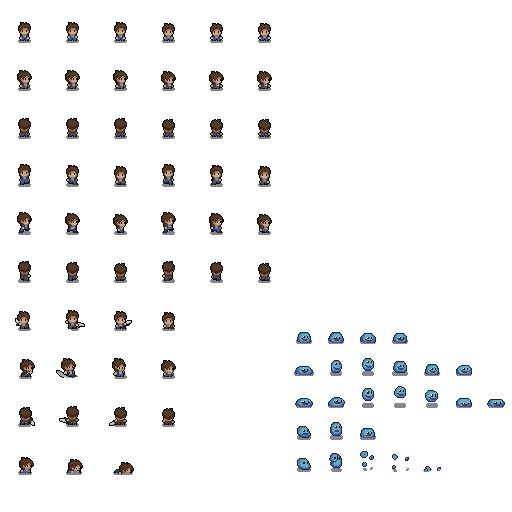
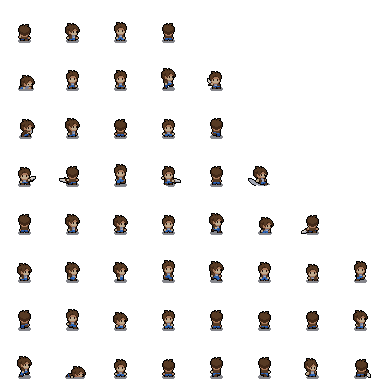
Animation system

diff --git a/core/src/main/kotlin/com/kolts/mystic/woods/screen/GameScreen.kt b/core/src/main/kotlin/com/kolts/mystic/woods/screen/GameScreen.kt
@@ -2,11 +2,13 @@ package com.kolts.mystic.woods.screen
 
 import com.badlogic.ashley.core.Engine
 import com.badlogic.gdx.graphics.g2d.TextureAtlas
-import com.badlogic.gdx.graphics.g2d.TextureRegion
 import com.badlogic.gdx.scenes.scene2d.Stage
 import com.badlogic.gdx.scenes.scene2d.ui.Image
 import com.badlogic.gdx.utils.viewport.ExtendViewport
+import com.kolts.mystic.woods.component.AnimationComponent
+import com.kolts.mystic.woods.component.AnimationModel
 import com.kolts.mystic.woods.component.ImageComponent
+import com.kolts.mystic.woods.system.AnimationSystem
 import com.kolts.mystic.woods.system.RenderSystem
 import ktx.actors.setPosition
 import ktx.actors.stage
@@ -23,36 +25,31 @@ class GameScreen(
 ) : KtxScreen, DisposableRegistry by disposableRegistry {
 
     private val stage: Stage = stage(viewport = ExtendViewport(16f, 9f)).alsoRegister()
+    private val textureAtlas = TextureAtlas("assets/graphic/mysticWoods.atlas").alsoRegister()
 
     private val engine: Engine = Engine()
         .apply {
+            addSystem(AnimationSystem(textureAtlas))
             addSystem(RenderSystem(stage))
         }
 
     override fun show() {
         log.debug { "GameScreen gets shown" }
 
-        val textureAtlas = TextureAtlas("assets/graphic/mysticWoods.atlas").alsoRegister()
-
-        engine.entity {
-            with<ImageComponent> {
-                image = Image(TextureRegion(textureAtlas.findRegion("player"), 0, 0, 48, 48))
-                    .apply {
-                        setSize(3f, 3f)
+        AnimationModel.entries
+            .mapIndexed { index, model ->
+                engine.entity {
+                    with<ImageComponent> {
+                        image = Image().apply {
+                            setSize(1f, 1f)
+                            setPosition(index, 1)
+                        }
                     }
-            }
-        }
-
-        engine.entity {
-            with<ImageComponent> {
-                image = Image(TextureRegion(textureAtlas.findRegion("slime"), 0, 0, 32, 32))
-                    .apply {
-                        setSize(3f, 3f)
-                        setPosition(5, 0)
+                    with<AnimationComponent> {
+                        this.model = model
                     }
+                }
             }
-        }
-
     }
 
     override fun render(delta: Float) {

diff --git a/core/src/main/kotlin/com/kolts/mystic/woods/system/AnimationSystem.kt b/core/src/main/kotlin/com/kolts/mystic/woods/system/AnimationSystem.kt
@@ -1,0 +1,47 @@
+package com.kolts.mystic.woods.system
+
+import com.badlogic.ashley.core.Entity
+import com.badlogic.ashley.systems.IteratingSystem
+import com.badlogic.gdx.graphics.g2d.Animation
+import com.badlogic.gdx.graphics.g2d.TextureAtlas
+import com.badlogic.gdx.scenes.scene2d.utils.TextureRegionDrawable
+import com.kolts.mystic.woods.component.*
+import ktx.app.gdxError
+import ktx.ashley.allOf
+import ktx.collections.map
+import ktx.log.logger
+
+
+class AnimationSystem(
+    private val textureAtlas: TextureAtlas,
+) : IteratingSystem(
+    allOf(ImageComponent::class, AnimationComponent::class).get()
+) {
+
+    private val cachedAnimations = mutableMapOf<String, Animation<TextureRegionDrawable>>()
+
+    override fun processEntity(entity: Entity?, deltaTime: Float) {
+        val animationComponent = entity!!.animationComponent!!
+        val imageComponent = entity.imageComponent!!
+
+        animationComponent.stateTime += deltaTime
+        imageComponent.image.drawable = animation(animationComponent.model).getKeyFrame(animationComponent.stateTime)
+    }
+
+    private fun animation(animationModel: AnimationModel): Animation<TextureRegionDrawable> {
+        val atlasKey = animationModel.atlasKey
+        return cachedAnimations.getOrPut(atlasKey) {
+            log.debug { "New animation is created for $atlasKey" }
+            val regions = textureAtlas.findRegions(atlasKey)
+            if (regions.isEmpty) {
+                gdxError("There are no texture regions for $atlasKey")
+            }
+            Animation(DEFAULT_FRAME_DURATION, regions.map { TextureRegionDrawable(it) }, Animation.PlayMode.LOOP)
+        }
+    }
+
+    companion object {
+        private val log = logger<AnimationSystem>()
+        private const val DEFAULT_FRAME_DURATION = 1 / 8f
+    }
+}

diff --git a/core/src/main/kotlin/com/kolts/mystic/woods/component/AnimationComponent.kt b/core/src/main/kotlin/com/kolts/mystic/woods/component/AnimationComponent.kt
@@ -1,0 +1,28 @@
+package com.kolts.mystic.woods.component
+
+import com.badlogic.ashley.core.Component
+import com.badlogic.ashley.core.Entity
+import ktx.ashley.optionalPropertyFor
+
+enum class AnimationModel {
+    PLAYER_IDLE,
+    PLAYER_IDLE_RIGHT,
+    PLAYER_IDLE_UP,
+    PLAYER_RUN_RIGHT,
+    PLAYER_RUN_UP,
+    PLAYER_RUN_DOWN,
+    PLAYER_ATTACK_RIGHT,
+    PLAYER_ATTACK_UP,
+    PLAYER_ATTACK_DOWN,
+    PLAYER_DEATH,
+    ;
+
+    val atlasKey: String = name.lowercase()
+}
+
+var Entity.animationComponent by optionalPropertyFor<AnimationComponent>()
+
+class AnimationComponent : Component {
+    var stateTime: Float = 0f
+    lateinit var model: AnimationModel
+}
